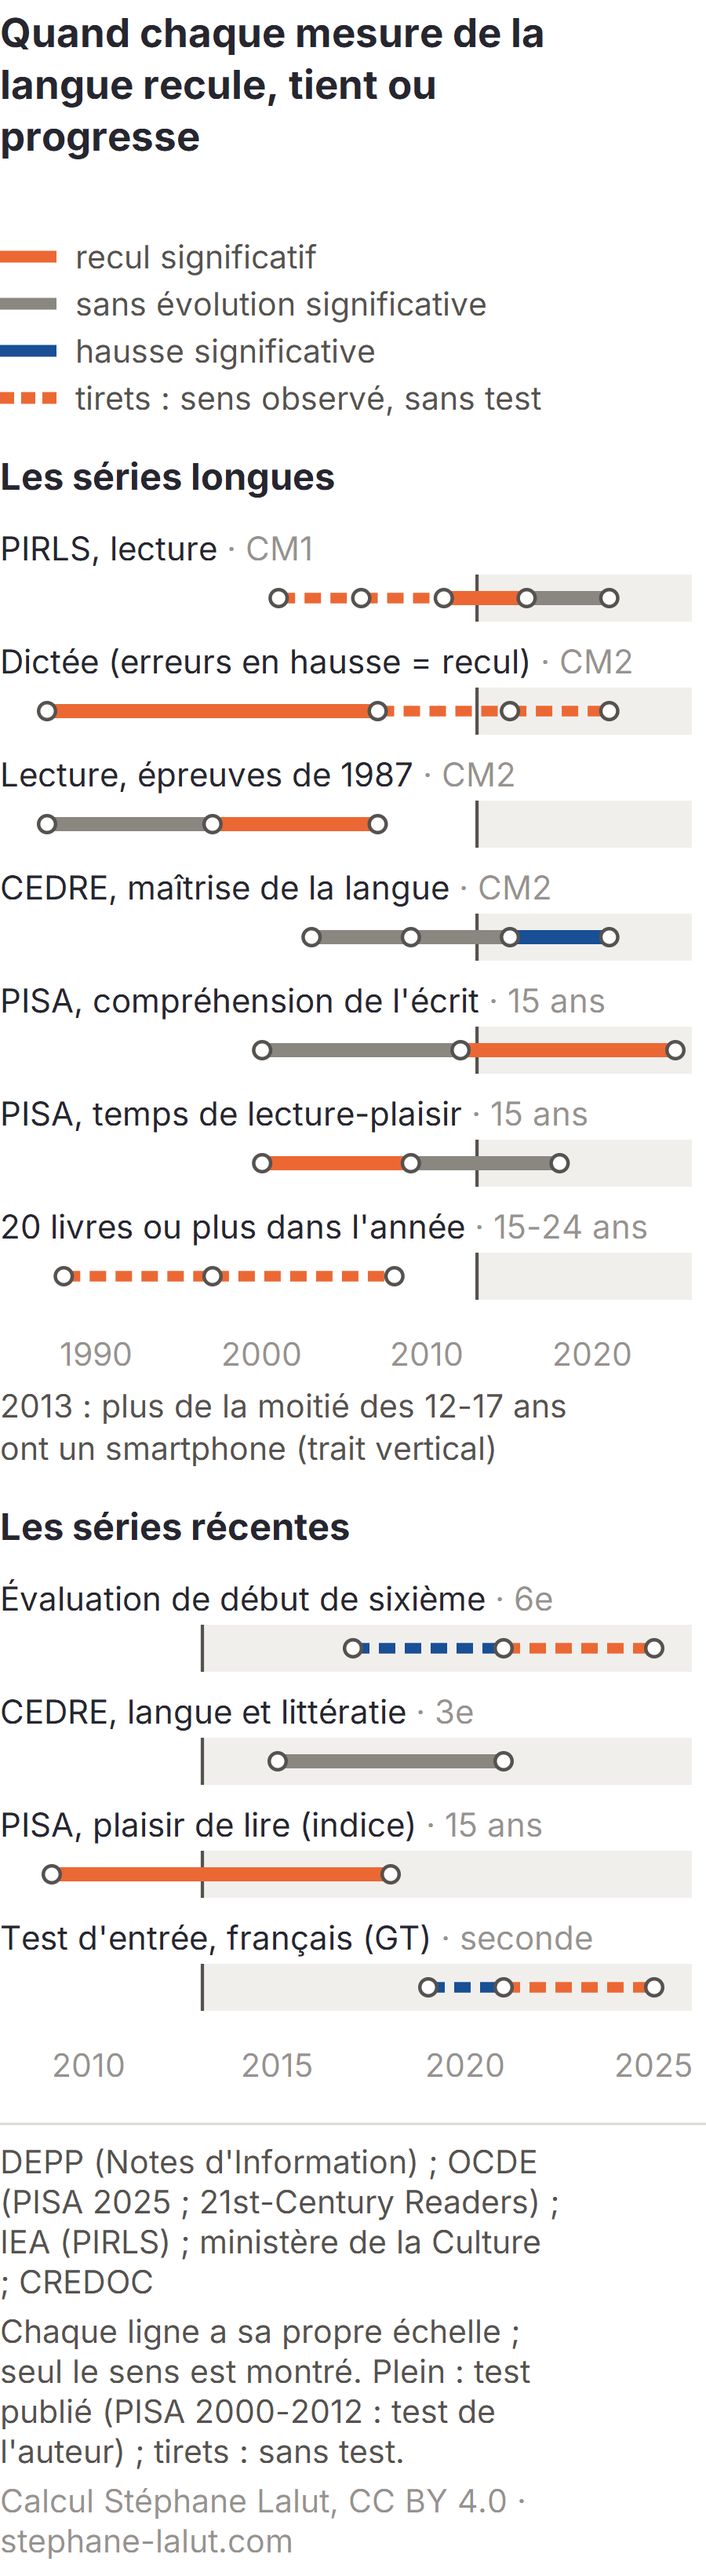
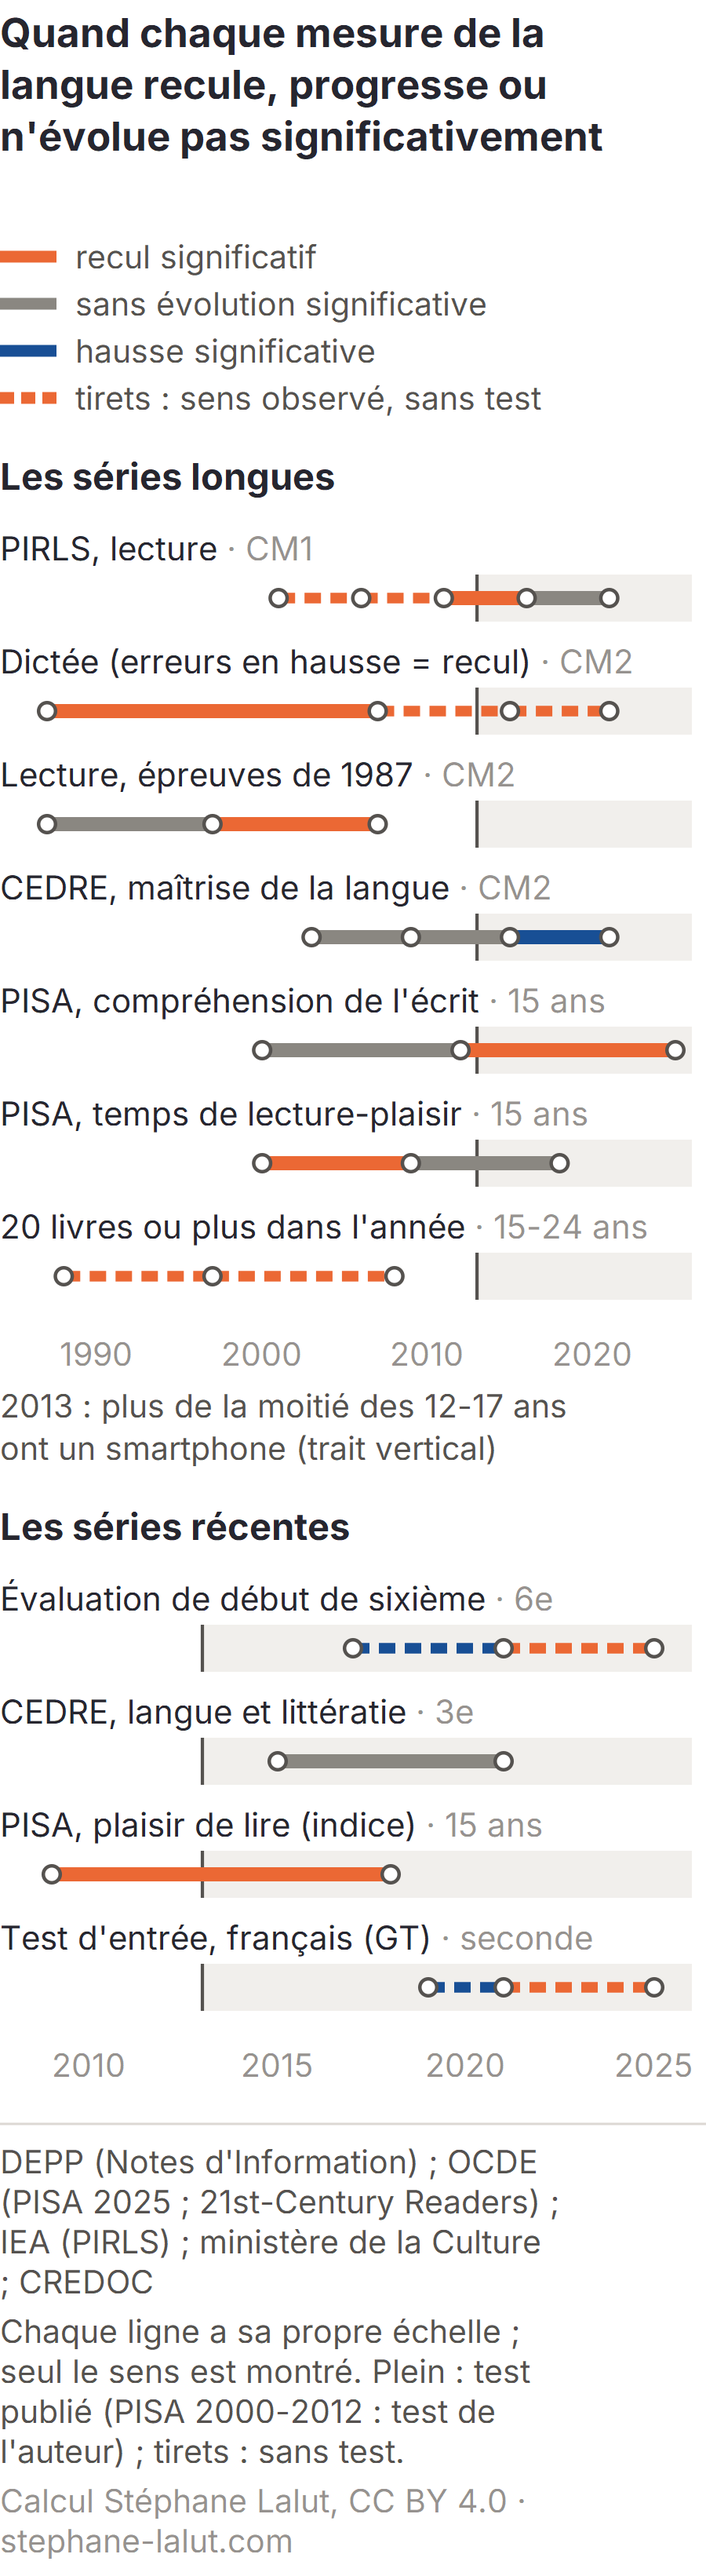
feat(langue): figure ensemble / education prioritaire (CEDRE fin de college 2015-2021), versions detaillee et mobile
Six groupes en halteres, orange = baisse significative selon la DEPP, gris = sans evolution
significative ; « aucun test de l'evolution des ecarts entre groupes n'est publie » imprime dans
l'image. Parite mobile/detaillee controlee, fiche « Reutiliser » generee.
Meme famille corrigee : « la moyenne tient », « moyenne stable » et le titre de la frise
(« recule, tient ou progresse ») -> « n'evolue pas significativement » : non significatif
n'est pas inchange.

Changed region(s): [[0.3733, 0.0311, 0.8711, 0.0622], [0.0311, 0.0311, 0.3422, 0.0622]]

diff --git a/scripts/update_langue_eleves.py b/scripts/update_langue_eleves.py
@@ -396,7 +396,7 @@ def pied(e, y0, source, note):
 
 FIG = {
     "chronologie": dict(
-        titre="La langue des élèves : quand chaque mesure recule, tient ou progresse",
+        titre="La langue des élèves : quand chaque mesure recule, progresse ou n'évolue pas significativement",
         source="DEPP (Notes d'Information) ; OCDE (PISA 2025 ; 21st-Century Readers) ; IEA (PIRLS) ; ministère de la Culture ; CREDOC",
         note="Chaque ligne a sa propre échelle ; seul le sens est montré. Plein : test publié (PISA 2000-2012 : test de l'auteur) ; tirets : sans test.",
         montre="Les reculs les plus anciens (dictée et lecture en CM2, temps de lecture pour le plaisir à 15 ans) précèdent 2013 ; PISA ne baisse significativement qu'après 2012, quand PIRLS et CEDRE ne reculent pas significativement sur des périodes qui recouvrent en partie cette baisse."),
@@ -411,6 +411,67 @@ FIG = {
         note="Une seule enquête : l'écart entre classes compare des élèves différents la même année, ce n'est pas une évolution dans le temps.",
         montre="Dans l'enquête de 2023, la part des élèves qui ne lisent pas pour leur plaisir est plus élevée en seconde qu'en sixième, et près de la moitié en seconde professionnelle : des élèves différents la même année, pas une évolution."),
 }
+
+
+FIG["ecarts"] = dict(
+    titre="Fin de collège : la moyenne ne baisse pas significativement, l'éducation prioritaire si (CEDRE, 2015-2021)",
+    source="DEPP, Note d'Information 22.29 et tableaux de données (CEDRE, compétences langagières et littératie en fin de collège)",
+    note="Échelle fixée à 250 en 2015. Orange : baisse significative selon la DEPP ; gris : sans évolution significative. "
+         "Aucun test de l'évolution des écarts entre groupes n'est publié.",
+    montre="En fin de collège, le score de l'ensemble des élèves n'évolue pas significativement de 2015 à 2021, quand celui de "
+           "l'éducation prioritaire et celui des garçons baissent significativement ; l'évolution des écarts entre groupes n'est pas testée.")
+
+# Ordre et libellés des lignes de la figure des écarts (refonte du 10/10/2026, évaluation OPTIMUM-04)
+ECARTS = (("Ensemble des élèves", None), ("Public hors éducation prioritaire", "Public hors EP"), ("Éducation prioritaire", "EP"),
+          ("Privé", "Privé"), ("Filles", "Filles"), ("Garçons", "Garçons"))
+
+
+def lignes_ecarts(c):
+    cc = c["cc"]
+    out = []
+    for lib, k in ECARTS:
+        s = cc["score"] if k is None else cc["groupes"][k]
+        sig = cc["significatif"]["2021"] if k is None else cc["groupes_significatif"][k]["2021"]
+        out.append((lib, s["2015"], s["2021"], sig))
+    return out
+
+
+def desc_ecarts(L):
+    return "Score CEDRE en fin de collège, 2015 puis 2021 : " + " ; ".join(
+        "%s %s puis %s%s" % (lib, nb(a), nb(b), ", baisse significative" if sg and b < a else ", sans évolution significative")
+        for lib, a, b, sg in L) + "."
+
+
+def fig_ecarts(c, A):
+    t = FIG["ecarts"]
+    L = lignes_ecarts(c)
+    v0, v1, x0, x1 = 220, 265, 300, 690
+    sx = lambda v: x0 + (x1 - x0) * (v - v0) / (v1 - v0)
+    top, pas = 70, 38
+    h = top + pas * len(L) + 40
+    e = tete("lan-e", t["titre"], desc_ecarts(L), h + 52)
+    for v in range(v0, v1 + 1, 5):
+        e.append('<line x1="%.1f" y1="%d" x2="%.1f" y2="%d" stroke="%s" stroke-width="0.5"/>' % (sx(v), top - 16, sx(v), top + pas * len(L) - 10, GRID))
+        e.append('<text x="%.1f" y="%d" font-size="9.5" fill="%s" text-anchor="middle">%d</text>' % (sx(v), top + pas * len(L) + 6, MUTED, v))
+    for i, (lib, a, b, sg) in enumerate(L):
+        y = top + pas * i
+        col = ORANGE if sg and b < a else GRIS
+        e.append('<text x="0" y="%d" font-size="11.5" fill="%s"%s>%s</text>' % (y + 4, INK, ' font-weight="600"' if i == 0 else "", esc(lib)))
+        e.append('<line x1="%.1f" y1="%d" x2="%.1f" y2="%d" stroke="%s" stroke-width="5"/>' % (sx(a), y, sx(b), y, col))
+        e.append('<circle cx="%.1f" cy="%d" r="4.5" fill="#ffffff" stroke="%s" stroke-width="1.6"/>' % (sx(a), y, INK2))
+        e.append('<circle cx="%.1f" cy="%d" r="5" fill="%s"/>' % (sx(b), y, col))
+        gauche, droite = (b, a) if b < a else (a, b)
+        e.append('<text x="%.1f" y="%d" font-size="10.5" fill="%s" text-anchor="end">%s</text>' % (sx(gauche) - 9, y + 4, INK2, nb(gauche)))
+        e.append('<text x="%.1f" y="%d" font-size="10.5" fill="%s">%s</text>' % (sx(droite) + 9, y + 4, INK2, nb(droite)))
+    yl = top + pas * len(L) + 26
+    e.append('<circle cx="6" cy="%d" r="4.5" fill="#ffffff" stroke="%s" stroke-width="1.6"/>' % (yl - 4, INK2))
+    e.append('<text x="16" y="%d" font-size="10" fill="%s">2015</text>' % (yl, INK2))
+    e.append('<circle cx="62" cy="%d" r="5" fill="%s"/>' % (yl - 4, GRIS))
+    e.append('<text x="72" y="%d" font-size="10" fill="%s">2021</text>' % (yl, INK2))
+    for k, (col, lib) in enumerate(((ORANGE, "baisse significative"), (GRIS, "sans évolution significative"))):
+        e.append('<line x1="%d" y1="%d" x2="%d" y2="%d" stroke="%s" stroke-width="5"/>' % (130 + 190 * k, yl - 4, 152 + 190 * k, yl - 4, col))
+        e.append('<text x="%d" y="%d" font-size="10" fill="%s">%s</text>' % (158 + 190 * k, yl, INK2, lib))
+    return pied(e, h + 2, t["source"], t["note"])
 
 
 def statut(sig, baisse):
@@ -647,7 +708,7 @@ def fig_chronologie_m(c, A):
         "%s (%s) : %s" % (lib, pop, ", ".join("%d-%d %s" % (u, v, mots[statut(sg, bs)]) for u, v, sg, bs in seg)) for lib, pop, seg in L) + "."
     longues = [r for r in L if min(u for u, *_ in r[2]) < 2009]
     recentes = [r for r in L if min(u for u, *_ in r[2]) >= 2009]
-    e, y = tete_m("lan-cm", "Quand chaque mesure de la langue recule, tient ou progresse", desc, 0)
+    e, y = tete_m("lan-cm", "Quand chaque mesure de la langue recule, progresse ou n'évolue pas significativement", desc, 0)
     y += 8
     for col, plein, lib in ((ORANGE, True, "recul significatif"), (GRIS, True, "sans évolution significative"),
                             (BLEU, True, "hausse significative"), (ORANGE, False, "tirets : sens observé, sans test")):
@@ -688,10 +749,39 @@ def fig_chronologie_m(c, A):
     return finir_m(e, h)
 
 
+def fig_ecarts_m(c, A):
+    t = FIG["ecarts"]
+    L = lignes_ecarts(c)
+    v0, v1, x0, x1 = 220, 265, 34, WM - 34
+    sx = lambda v: x0 + (x1 - x0) * (v - v0) / (v1 - v0)
+    e, y = tete_m("lan-em", "Fin de collège : pas de baisse significative en moyenne, une baisse significative en éducation prioritaire", desc_ecarts(L), 0)
+    y += 10
+    for col, plein, lib in ((ORANGE, True, "baisse significative"), (GRIS, True, "sans évolution significative")):
+        y += 20
+        e.append('<line x1="0" y1="%d" x2="24" y2="%d" stroke="%s" stroke-width="5"/>' % (y - 5, y - 5, col))
+        e.append('<text x="32" y="%d" font-size="%s" fill="%s">%s</text>' % (y, FS_MIN, INK2, lib))
+    y += 20
+    e.append('<text x="0" y="%d" font-size="%s" fill="%s">rond blanc : 2015 · rond plein : 2021</text>' % (y, FS_MIN, INK2))
+    y += 14
+    for i, (lib, a, b, sg) in enumerate(L):
+        col = ORANGE if sg and b < a else GRIS
+        y += 36  # un groupe = son libellé et son trait, serrés ; l'air va ENTRE les groupes
+        e.append('<text x="0" y="%d" font-size="14.5" fill="%s"%s>%s</text>' % (y, INK, ' font-weight="600"' if i == 0 else "", esc(lib)))
+        y += 18
+        e.append('<line x1="%.1f" y1="%d" x2="%.1f" y2="%d" stroke="%s" stroke-width="6"/>' % (sx(a), y, sx(b), y, col))
+        e.append('<circle cx="%.1f" cy="%d" r="5" fill="#ffffff" stroke="%s" stroke-width="1.6"/>' % (sx(a), y, INK2))
+        e.append('<circle cx="%.1f" cy="%d" r="5.5" fill="%s"/>' % (sx(b), y, col))
+        gauche, droite = (b, a) if b < a else (a, b)
+        e.append('<text x="%.1f" y="%d" font-size="%s" fill="%s" text-anchor="end">%s</text>' % (sx(gauche) - 8, y + 5, FS_MIN, INK2, nb(gauche)))
+        e.append('<text x="%.1f" y="%d" font-size="%s" fill="%s">%s</text>' % (sx(droite) + 8, y + 5, FS_MIN, INK2, nb(droite)))
+    e, h = pied_m(e, y + 22, t["source"], t["note"])
+    return finir_m(e, h)
+
+
 def parite_mobile(figs):
     """Les figures mobiles portent les mêmes valeurs et les mêmes intervalles que la version détaillée (R5 : comparaison
     sur les SORTIES, pas sur les fonctions qui les écrivent)."""
-    for fid in ("chronologie", "dictee", "plaisir"):
+    for fid in ("chronologie", "dictee", "plaisir", "ecarts"):
         d, m = figs["langue-%s.svg" % fid], figs["langue-%s-m.svg" % fid]
         desc = lambda s: html.unescape(re.search(r"<desc[^>]*>(.*?)</desc>", s).group(1))
         corps = lambda s: desc(s).split("smartphone. ", 1)[1] if fid == "chronologie" else desc(s).split(" : ", 1)[1]
@@ -707,7 +797,7 @@ def parite_mobile(figs):
 
 def fiches(figs):
     out = []
-    for fid in ("chronologie", "dictee", "plaisir"):
+    for fid in ("chronologie", "dictee", "plaisir", "ecarts"):
         svg = figs["langue-%s.svg" % fid]
         titre = html.unescape(re.search(r"<title[^>]*>(.*?)</title>", svg).group(1))
         cart = [html.unescape(t) for t in re.findall(r'<text x="0" y="[0-9.]+" font-size="9" fill="[^"]+">(.*?)</text>', svg)]
@@ -802,7 +892,8 @@ def main() -> int:
         return 0
     import cairosvg
     figs = {"langue-chronologie.svg": fig_chronologie(c, A), "langue-dictee.svg": fig_dictee(c, A), "langue-plaisir.svg": fig_plaisir(c, A),
-            "langue-chronologie-m.svg": fig_chronologie_m(c, A), "langue-dictee-m.svg": fig_dictee_m(c, A), "langue-plaisir-m.svg": fig_plaisir_m(c, A)}
+            "langue-chronologie-m.svg": fig_chronologie_m(c, A), "langue-dictee-m.svg": fig_dictee_m(c, A), "langue-plaisir-m.svg": fig_plaisir_m(c, A),
+            "langue-ecarts.svg": fig_ecarts(c, A), "langue-ecarts-m.svg": fig_ecarts_m(c, A)}
     parite_mobile(figs)
     X = c["X"]
     payload = {"meta": {"page": "https://" + PAGE_URL, "licence": "CC BY 4.0",

diff --git a/content/les-eleves-maitrisent-ils-moins-bien-la-langue-francaise/_index.md b/content/les-eleves-maitrisent-ils-moins-bien-la-langue-francaise/_index.md
@@ -168,7 +168,15 @@ Aucune des séries de cette page ne départage d'ailleurs les explications en pr
 
 ## Les écarts se creusent-ils&nbsp;? {#ecarts}
 
-Pas de façon démontrée&nbsp;; mais la moyenne cache des trajectoires différentes, et c'est là que les évaluations françaises sont les plus nettes. En fin de collège, le score CEDRE de l'ensemble des élèves n'évolue pas significativement de 2015 à 2021. Pourtant, celui de l'éducation prioritaire baisse significativement ({{< lan-val "ccep15" >}} puis {{< lan-val "ccep21" >}}), comme celui des garçons ({{< lan-val "ccg15" >}} puis {{< lan-val "ccg21" >}}). Le public hors éducation prioritaire restant stable, l'écart entre les deux passe, selon la DEPP, de {{< lan-val "ccec15" >}} à {{< lan-val "ccec21" >}}&nbsp;points, et celui entre filles et garçons augmente aussi. Mais la DEPP ne publie pas de test de l'évolution de ces écarts eux-mêmes&nbsp;: on ne peut donc pas dire qu'ils se creusent significativement. En fin d'école, la hausse de 2021 vient du public hors éducation prioritaire&nbsp;; l'éducation prioritaire n'évolue pas significativement. À l'entrée du lycée, près de la moitié des élèves de seconde professionnelle déclarent ne pas lire pour leur plaisir. Comme en fin de collège, une moyenne stable peut recouvrir le recul de ceux qui partaient déjà de plus bas.
+<figure class="figure-ciseau">
+  <picture>
+    <source media="(max-width: 600px)" srcset="/img/langue-ecarts-m.svg" width="300" height="747">
+    <img src="/img/langue-ecarts.svg" alt="Score CEDRE en fin de collège, 2015 puis 2021 : ensemble des élèves {{< lan-val "cc15" >}} puis {{< lan-val "cc21" >}}, sans évolution significative ; éducation prioritaire {{< lan-val "ccep15" >}} puis {{< lan-val "ccep21" >}}, baisse significative ; garçons {{< lan-val "ccg15" >}} puis {{< lan-val "ccg21" >}}, baisse significative ; public hors éducation prioritaire, privé et filles sans évolution significative. Aucun test de l'évolution des écarts entre groupes n'est publié." width="720" height="390" loading="lazy">
+  </picture>
+  <figcaption>Score en fin de collège, 2015 et 2021, selon le secteur et le sexe (DEPP, CEDRE compétences langagières et littératie, Note d'Information 22.29).</figcaption>
+</figure>
+
+Pas de façon démontrée&nbsp;; mais la moyenne cache des trajectoires différentes, et c'est là que les évaluations françaises sont les plus nettes. En fin de collège, le score CEDRE de l'ensemble des élèves n'évolue pas significativement de 2015 à 2021. Pourtant, celui de l'éducation prioritaire baisse significativement ({{< lan-val "ccep15" >}} puis {{< lan-val "ccep21" >}}), comme celui des garçons ({{< lan-val "ccg15" >}} puis {{< lan-val "ccg21" >}}). Le public hors éducation prioritaire restant stable, l'écart entre les deux passe, selon la DEPP, de {{< lan-val "ccec15" >}} à {{< lan-val "ccec21" >}}&nbsp;points, et celui entre filles et garçons augmente aussi. Mais la DEPP ne publie pas de test de l'évolution de ces écarts eux-mêmes&nbsp;: on ne peut donc pas dire qu'ils se creusent significativement. En fin d'école, la hausse de 2021 vient du public hors éducation prioritaire&nbsp;; l'éducation prioritaire n'évolue pas significativement. À l'entrée du lycée, près de la moitié des élèves de seconde professionnelle déclarent ne pas lire pour leur plaisir. Comme en fin de collège, une moyenne qui ne baisse pas significativement peut recouvrir le recul de ceux qui partaient déjà de plus bas.
 
 Reste ce que la question de départ vise le plus directement, et que ces enquêtes mesurent le moins&nbsp;: les mots que les élèves connaissent, et les textes qu'on leur donne à lire.
 
